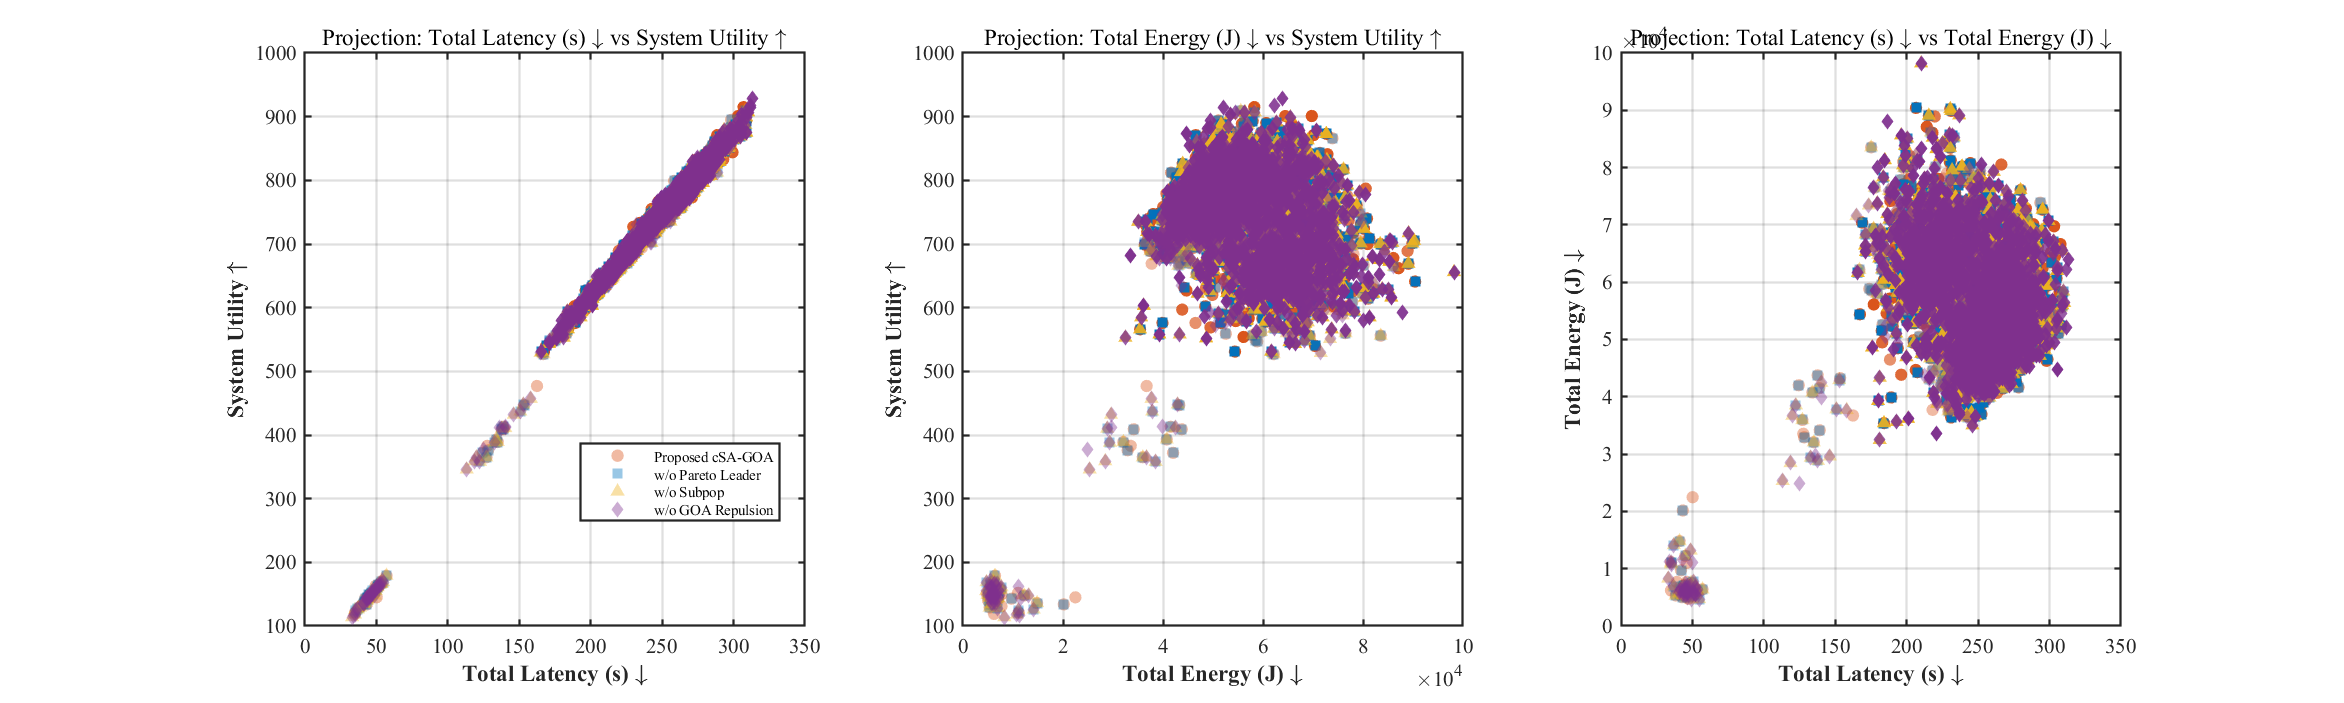
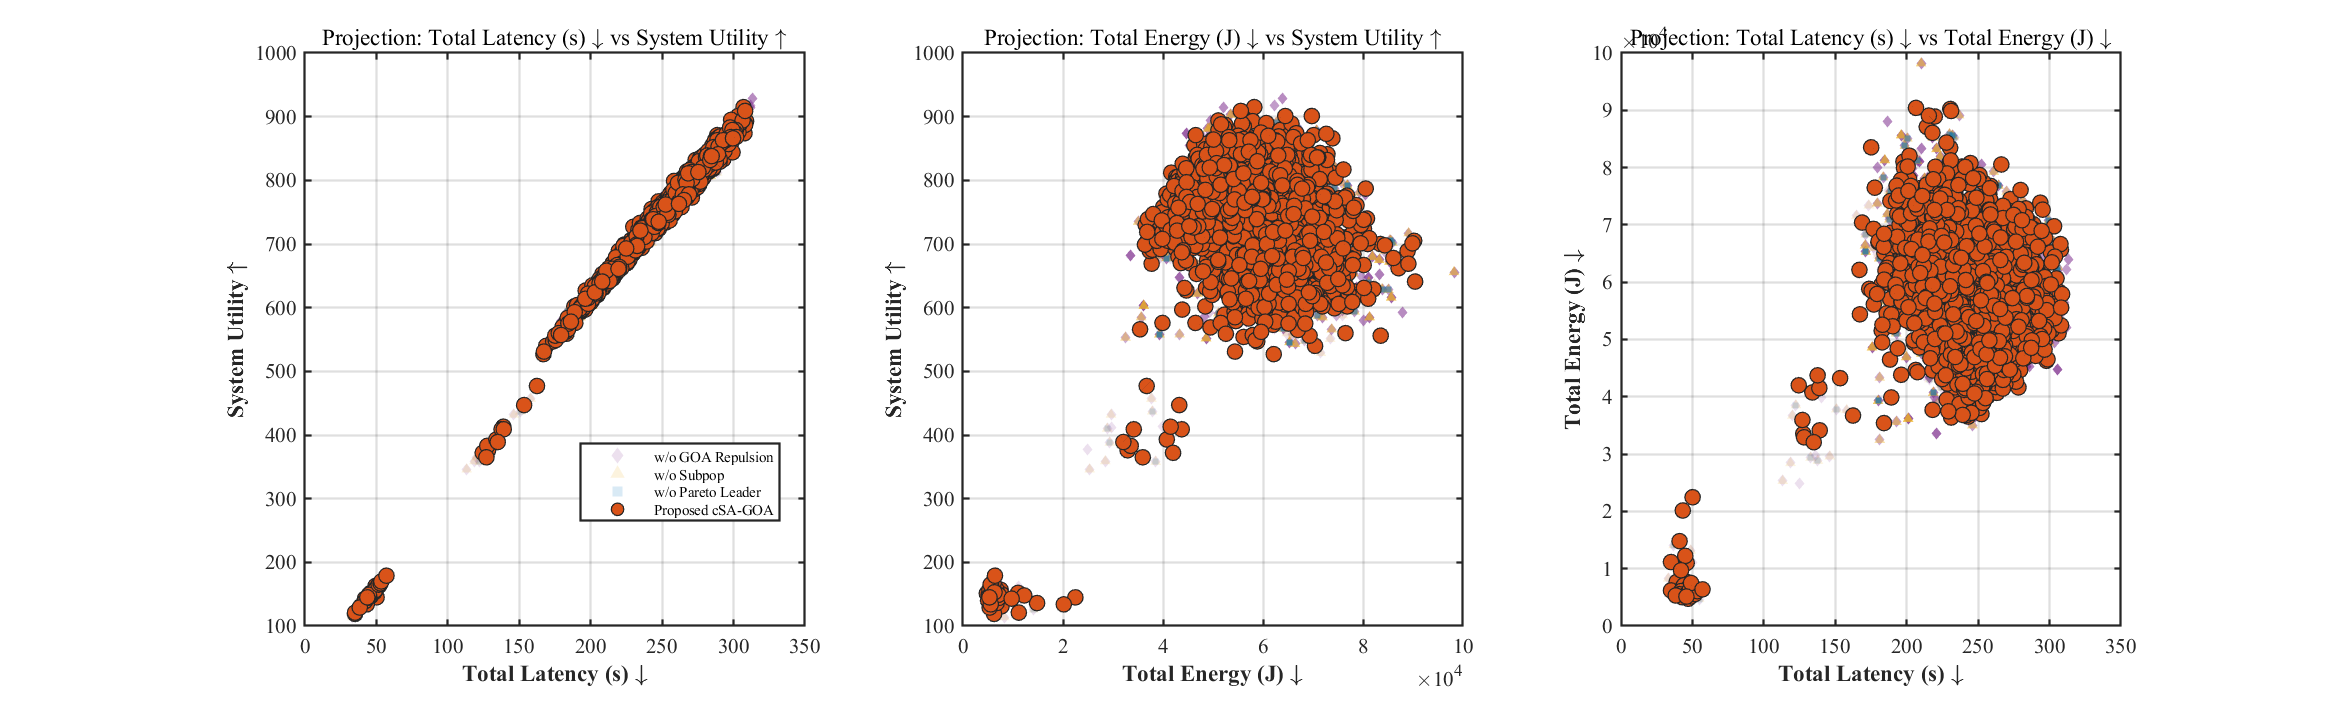
feat: add runtime and success rate metrics to comparison experiments
- Add success_rate output to calcMEC_Objectives.m
- Record runtime and success_rate in run_comparison_para.m
- Add runtime bar chart and success rate boxplot to plot_comparison_all.m
- Improve ablation 2D projections with hollow circle for proposed algorithm
- Export per-iteration runtime (total/300) for academic presentation

diff --git a/visualization/plot_comparison_all.m b/visualization/plot_comparison_all.m
@@ -263,4 +263,67 @@ end
 saveas(fig4, fullfile(output_dir, 'comparison_projections_2d.png'));
 saveas(fig4, fullfile(output_dir, 'comparison_projections_2d.fig'));
 close(fig4);
+
+fprintf('正在绘制收敛速度与成功率图表...\n');
+
+num_algs = length(algorithms);
+n_runs_actual = length(results.(algorithms{1}).runtimes);
+all_runtimes = zeros(n_runs_actual, num_algs);
+all_success = zeros(n_runs_actual, num_algs);
+
+for a = 1:num_algs
+    alg_name = algorithms{a};
+    if isfield(results.(alg_name), 'runtimes')
+        all_runtimes(:, a) = results.(alg_name).runtimes(:);
+        all_success(:, a) = results.(alg_name).success_rates(:) * 100;
+    else
+        warning('未找到 %s 的 runtime 或 success_rate 数据，请检查 mat 文件。', alg_name);
+    end
+end
+
+fig_runtime = figure('Position', [100, 100, 600, 450]);
+set(gcf, 'Color', 'w');
+hold on; grid on;
+set(gca, 'GridLineStyle', ':', 'GridAlpha', 0.6, 'FontSize', 12, 'LineWidth', 1.2);
+
+total_iterations = 300;
+mean_rt = mean(all_runtimes, 1) / total_iterations;
+std_rt = std(all_runtimes, 0, 1) / total_iterations;
+
+for a = 1:num_algs
+    bar(a, mean_rt(a), 0.6, 'FaceColor', colors(a,:), 'EdgeColor', 'k', 'LineWidth', 1.2, 'FaceAlpha', 0.8);
+end
+errorbar(1:num_algs, mean_rt, std_rt, 'k', 'LineStyle', 'none', 'LineWidth', 1.5, 'CapSize', 10);
+
+set(gca, 'XTick', 1:num_algs, 'XTickLabel', labels);
+ylabel('Average Runtime per Iteration (Seconds)', 'FontWeight', 'bold', 'FontSize', 12);
+title('Algorithm Runtime Comparison', 'FontWeight', 'bold', 'FontSize', 14);
+set(gca, 'FontName', 'Times New Roman', 'FontSize', 11, 'LineWidth', 1.2);
+box on;
+
+exportgraphics(fig_runtime, fullfile(output_dir, 'comparison_runtime_bar.png'), 'Resolution', 300);
+saveas(fig_runtime, fullfile(output_dir, 'comparison_runtime_bar.fig'));
+close(fig_runtime);
+
+fig_success = figure('Position', [150, 150, 600, 450]);
+set(gcf, 'Color', 'w');
+
+b2 = boxplot(all_success, 'Labels', labels, 'Colors', 'k');
+set(b2, 'LineWidth', 1.5);
+h = findobj(gca, 'Tag', 'Box');
+for j = 1:length(h)
+    patch(get(h(j), 'XData'), get(h(j), 'YData'), colors(num_algs-j+1,:), 'FaceAlpha', 0.6);
+end
+
+ylabel('Task Execution Success Rate (%)', 'FontWeight', 'bold', 'FontSize', 12);
+title('Task Success Rate Distribution (30 Independent Runs)', 'FontWeight', 'bold', 'FontSize', 14);
+grid on; set(gca, 'GridLineStyle', ':', 'GridAlpha', 0.6, 'FontSize', 12, 'LineWidth', 1.2);
+set(gca, 'FontName', 'Times New Roman', 'FontSize', 11, 'LineWidth', 1.2);
+box on;
+
+exportgraphics(fig_success, fullfile(output_dir, 'comparison_success_rate_boxplot.png'), 'Resolution', 300);
+saveas(fig_success, fullfile(output_dir, 'comparison_success_rate_boxplot.fig'));
+close(fig_success);
+
+fprintf('Runtime and success rate charts saved to %s\n', output_dir);
 end

diff --git a/visualization/plot_ablation_all.m b/visualization/plot_ablation_all.m
@@ -300,7 +300,7 @@ for p = 1:3
     subplot(1, 3, proj_configs{p, 5});
     hold on; grid on;
 
-    for v = 1:n_vars
+    for v = n_vars:-1:1
         variant = variants{v};
         if ~isfield(results, variant) || ~isfield(results.(variant), 'pareto_fronts'), continue; end
 
@@ -311,9 +311,19 @@ for p = 1:3
         end
 
         if ~isempty(all_data)
-            scatter(all_data(:, proj_configs{p, 1}), all_data(:, proj_configs{p, 2}), ...
-                35, colors(v,:), marker_styles{v}, 'filled', 'MarkerFaceAlpha', 0.4, ...
-                'DisplayName', labels{v});
+            if strcmp(variant, 'proposed')
+                scatter(all_data(:, proj_configs{p, 1}), all_data(:, proj_configs{p, 2}), ...
+                    40, marker_styles{v}, ...
+                    'MarkerEdgeColor', colors(v,:), ...
+                    'LineWidth', 1.5, ...
+                    'DisplayName', labels{v});
+            else
+                scatter(all_data(:, proj_configs{p, 1}), all_data(:, proj_configs{p, 2}), ...
+                    20, colors(v,:), marker_styles{v}, 'filled', ...
+                    'MarkerFaceAlpha', 0.2, ...
+                    'MarkerEdgeColor', 'none', ...
+                    'DisplayName', labels{v});
+            end
         end
     end
 

diff --git a/experiments/run_comparison_para.m b/experiments/run_comparison_para.m
@@ -160,10 +160,14 @@ function results = run_comparison_para(varargin)
         spread_values = zeros(n_runs, 1);
         pareto_sizes = zeros(n_runs, 1);
         pareto_fronts_cell = cell(n_runs, 1);
+        runtimes = zeros(n_runs, 1);
+        success_rates = zeros(n_runs, 1);
 
         parfor run = 1:n_runs
             stream = RandStream('mt19937ar', 'Seed', run * 200 + alg_idx * 1000);
             RandStream.setGlobalStream(stream);
+
+            t_start = tic;
 
             best_fit = 0;
             bestUAV = zeros(N_UAV, 2);
@@ -190,6 +194,11 @@ function results = run_comparison_para(varargin)
                     [best_fit, bestUAV, cg_curve, energy_consumption, pareto_archive] = ...
                         GWO_UAV(N_User, User, N_RRH, RRH, RRH_type, N_UAV, UAV_type, Ub, Lb, params, priorities);
             end
+
+            runtimes(run) = toc(t_start);
+
+            [~, ~, ~, s_rate] = calcMEC_Objectives(bestUAV, User, priorities, params);
+            success_rates(run) = s_rate;
 
             if ~isempty(pareto_archive) && length(pareto_archive) > 1
                 arch_util = [pareto_archive.Utility];
@@ -287,12 +296,18 @@ function results = run_comparison_para(varargin)
         results.(alg_name).mean_spread = mean(spread_values);
         results.(alg_name).mean_pareto_size = mean(pareto_sizes);
         results.(alg_name).pareto_fronts = pareto_fronts_cell;
+        results.(alg_name).runtimes = runtimes;
+        results.(alg_name).mean_runtime = mean(runtimes);
+        results.(alg_name).success_rates = success_rates;
+        results.(alg_name).mean_success_rate = mean(success_rates);
 
         fprintf('  >> %s 平均结果:\n', alg_desc);
         fprintf('     Mean Fitness: %.2f +/- %.2f\n', mean(best_fits), std(best_fits));
         fprintf('     Mean Energy: %.2f J\n', mean(energies));
         fprintf('     Mean High-Priority Coverage: %.2f%%\n', mean(cov_high));
         fprintf('     Mean HV: %.4f +/- %.4f\n', mean(hv_values), std(hv_values));
+        fprintf('     Mean Runtime: %.2f s\n', mean(runtimes));
+        fprintf('     Mean Success Rate: %.2f%%\n', mean(success_rates) * 100);
     end
 
     fprintf('\n========== 开始执行全局 Min-Max 归一化与指标修正 ==========\n');

diff --git a/calcMEC_Objectives.m b/calcMEC_Objectives.m
@@ -1,10 +1,11 @@
-function [utility, latency, energy] = calcMEC_Objectives(UAV_pos, User, priorities, params)
+function [utility, latency, energy, success_rate] = calcMEC_Objectives(UAV_pos, User, priorities, params)
     N_User = size(User, 1);
     N_UAV = size(UAV_pos, 1);
 
     utility = 0;
     latency = 0;
     comp_energy = 0;
+    success_count = 0;
 
     B_available = ones(N_UAV, 1) * params.B_total;
     F_available = ones(N_UAV, 1) * params.F_total;
@@ -38,6 +39,7 @@ function [utility, latency, energy] = calcMEC_Objectives(UAV_pos, User, prioriti
                 F_available(best_uav) = F_available(best_uav) - req_F;
 
                 utility = utility + prio;
+                success_count = success_count + 1;
 
                 t_trans = task_D_user / (req_B * spectral_efficiency);
                 t_comp = task_C_user / req_F;
@@ -72,6 +74,7 @@ function [utility, latency, energy] = calcMEC_Objectives(UAV_pos, User, prioriti
                                     utility = utility + prio;
                                     latency = latency + total_relay_latency;
                                     comp_energy = comp_energy + (params.PtxU * t_trans2);
+                                    success_count = success_count + 1;
                                 end
                             end
                         end
@@ -85,4 +88,5 @@ function [utility, latency, energy] = calcMEC_Objectives(UAV_pos, User, prioriti
     flight_energy = sum(fly_dist * params.k_move);
 
     energy = flight_energy + comp_energy;
+    success_rate = success_count / N_User;
 end